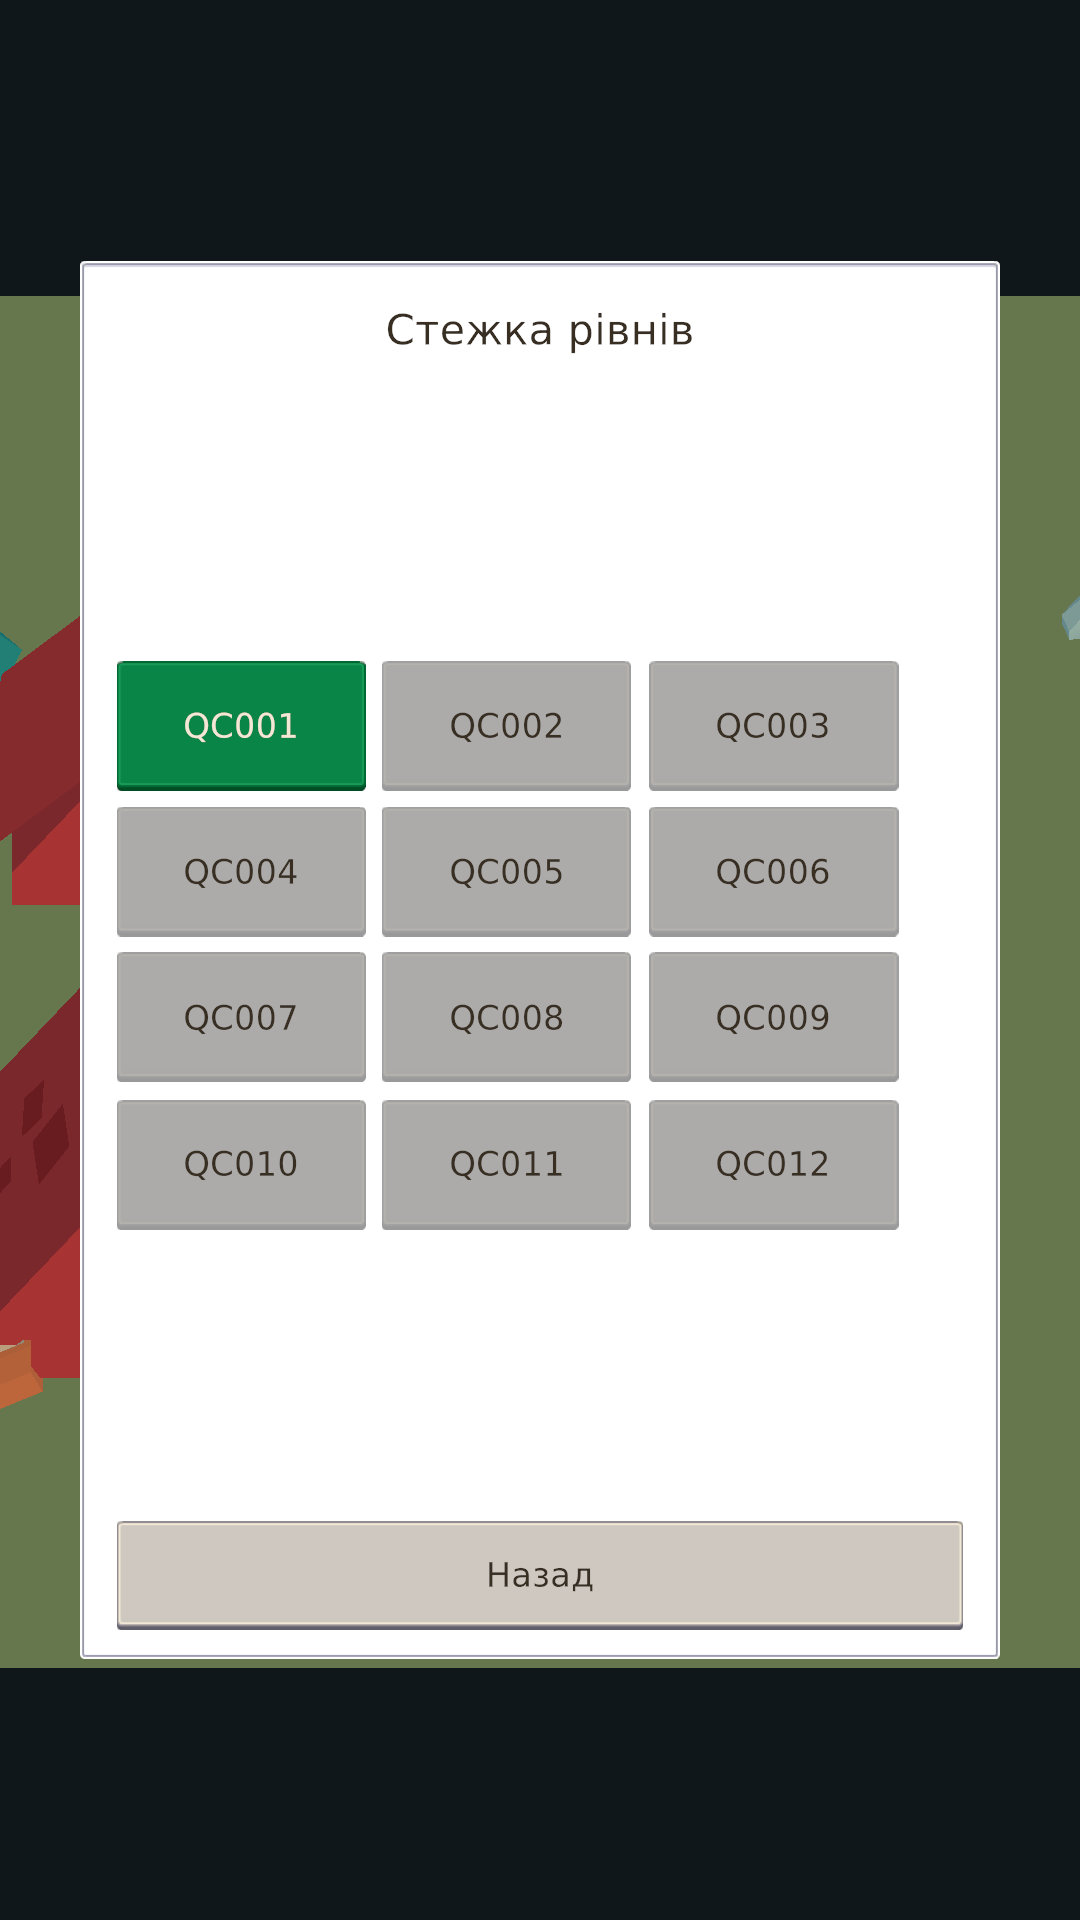
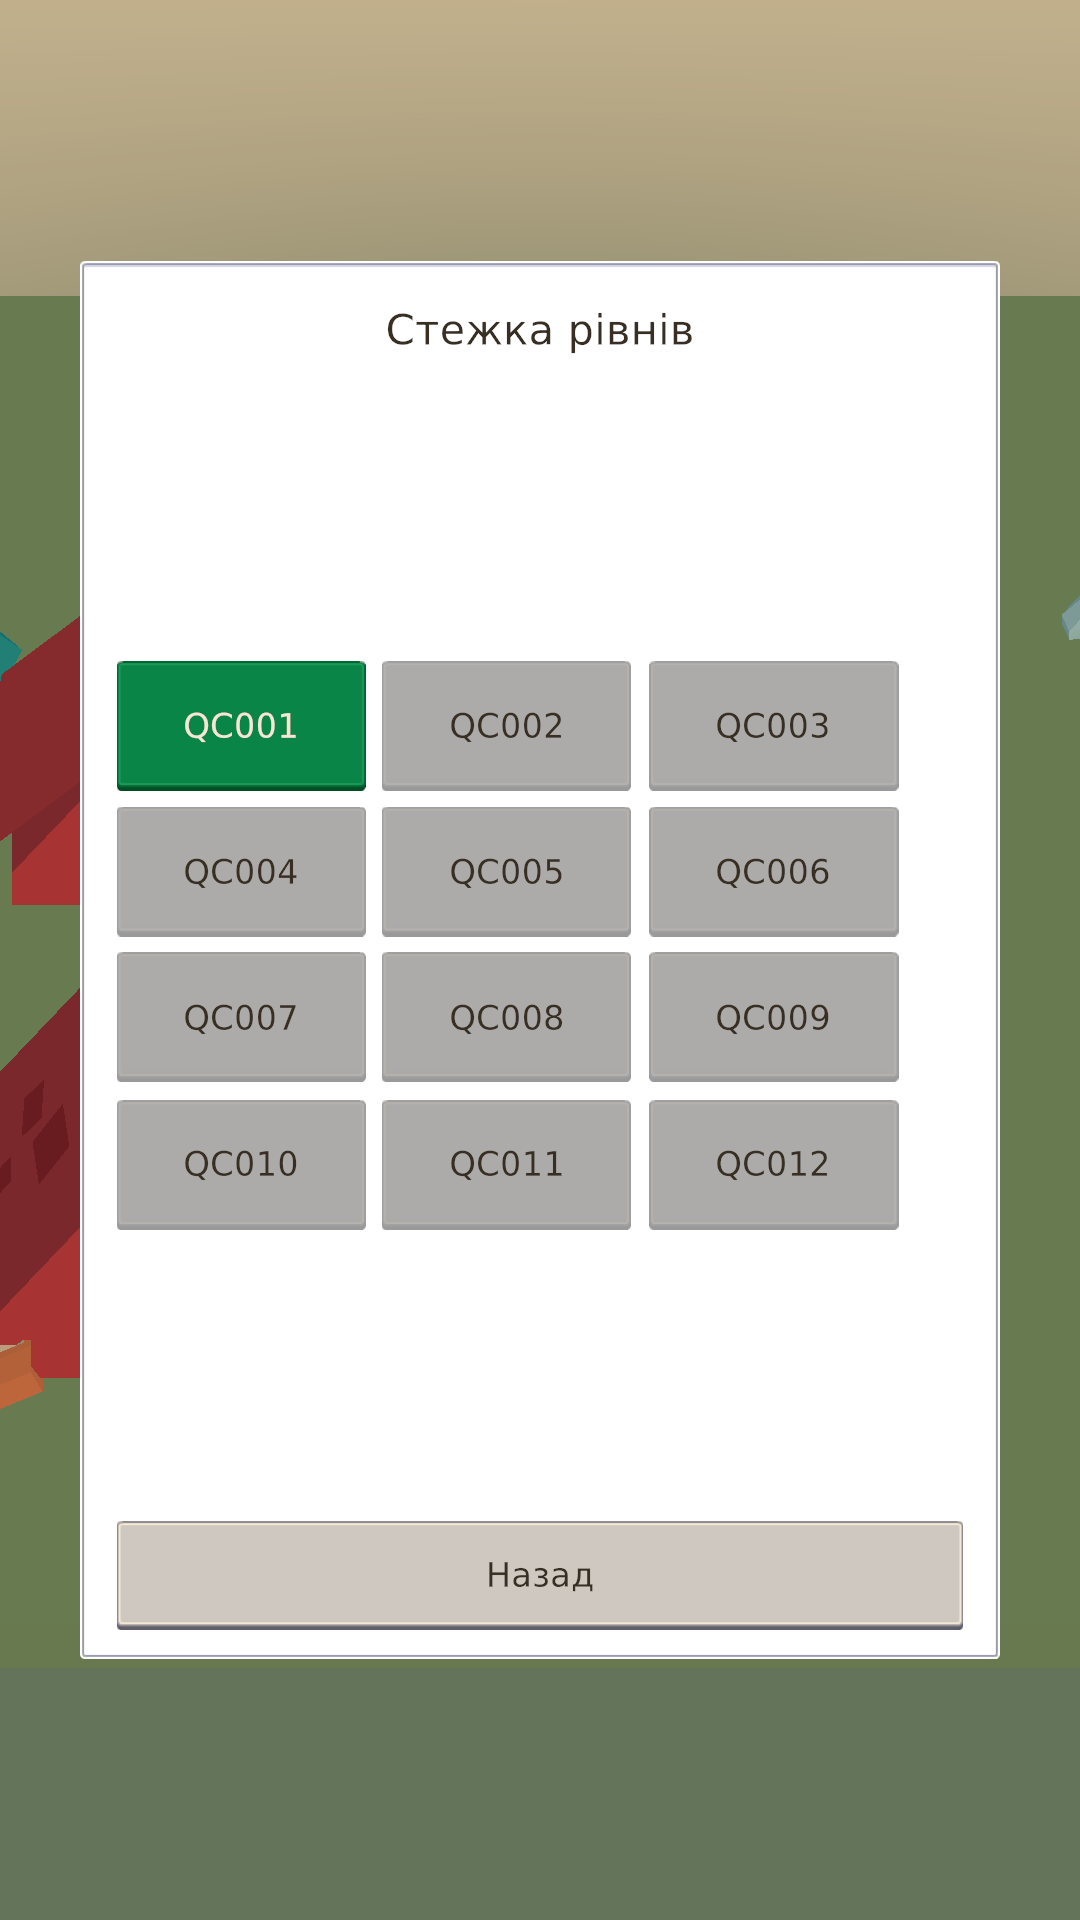
tests: decor spawn + sky material resolution, refreshed screenshots
DecorPlayModeTests asserts the meadow apron + decor ring spawn and
stay below the board top. Sky materials resolve to the SkyGradient
shader via Resources. Screenshots regenerated for menu, settings,
levels, camp day, pause and camp settings.

Generated with [Devin](https://devin.ai)

Changed region(s): [[0.0, 0.8438, 1.0, 1.0], [0.0, 0.0, 1.0, 0.1562]]

diff --git a/QuietCamp/Assets/QuietCamp/Tests/PlayMode/DecorPlayModeTests.cs b/QuietCamp/Assets/QuietCamp/Tests/PlayMode/DecorPlayModeTests.cs
@@ -1,0 +1,60 @@
+using System.Collections;
+using NUnit.Framework;
+using UnityEngine;
+using UnityEngine.SceneManagement;
+using UnityEngine.TestTools;
+
+namespace QuietCamp.Tests
+{
+    /// <summary>Camp diorama must actually spawn the meadow + forest ring.</summary>
+    public class DecorPlayModeTests
+    {
+        [UnityTest]
+        public IEnumerator CampScene_SpawnsMeadowAndDecor()
+        {
+            yield return SceneManager.LoadSceneAsync("Boot");
+            yield return null;
+            yield return SceneManager.LoadSceneAsync("Camp");
+            yield return null; yield return null;
+
+            var decor = FindRoot("DecorRoot");
+            Assert.IsNotNull(decor, "Camp scene needs DecorRoot");
+            Assert.Greater(decor.childCount, 20,
+                $"Expected meadow + decor ring, got {decor.childCount} children");
+
+            var meadow = decor.Find("Meadow");
+            Assert.IsNotNull(meadow, "Meadow apron missing");
+
+            // Board top must sit above the meadow surface.
+            Assert.Less(meadow.position.y, 0.01f, "Meadow must stay below the board top");
+
+            // Skybox + opaque pass sanity: the camera must clear to skybox.
+            var cam = Camera.main;
+            Assert.IsNotNull(cam, "Main camera missing");
+            Assert.AreEqual(CameraClearFlags.Skybox, cam.clearFlags,
+                "Camp camera must render the skybox background");
+        }
+
+        static Transform FindRoot(string name)
+        {
+            var scene = SceneManager.GetActiveScene();
+            foreach (var root in scene.GetRootGameObjects())
+            {
+                var t = FindDeep(root.transform, name);
+                if (t != null) return t;
+            }
+            return null;
+        }
+
+        static Transform FindDeep(Transform t, string name)
+        {
+            if (t.name == name) return t;
+            for (var i = 0; i < t.childCount; i++)
+            {
+                var c = FindDeep(t.GetChild(i), name);
+                if (c != null) return c;
+            }
+            return null;
+        }
+    }
+}

diff --git a/QuietCamp/Assets/QuietCamp/Tests/PlayMode/AudioPlayModeTests.cs b/QuietCamp/Assets/QuietCamp/Tests/PlayMode/AudioPlayModeTests.cs
@@ -51,6 +51,19 @@ namespace QuietCamp.Tests
             }
         }
 
+        [Test]
+        public void SkyMaterials_LoadWithValidShader()
+        {
+            foreach (var name in new[] { "SkyDay", "SkyEvening" })
+            {
+                var mat = Resources.Load<Material>("QuietCamp/Sky/" + name);
+                Assert.IsNotNull(mat, $"Sky material '{name}' missing");
+                Assert.IsNotNull(mat.shader, $"Sky material '{name}' lost its shader");
+                Assert.AreNotEqual("Hidden/InternalErrorShader", mat.shader.name,
+                    $"Sky material '{name}' fell back to error shader");
+            }
+        }
+
         [UnityTest]
         public IEnumerator AudioService_PlaysLoopedAmbience()
         {
